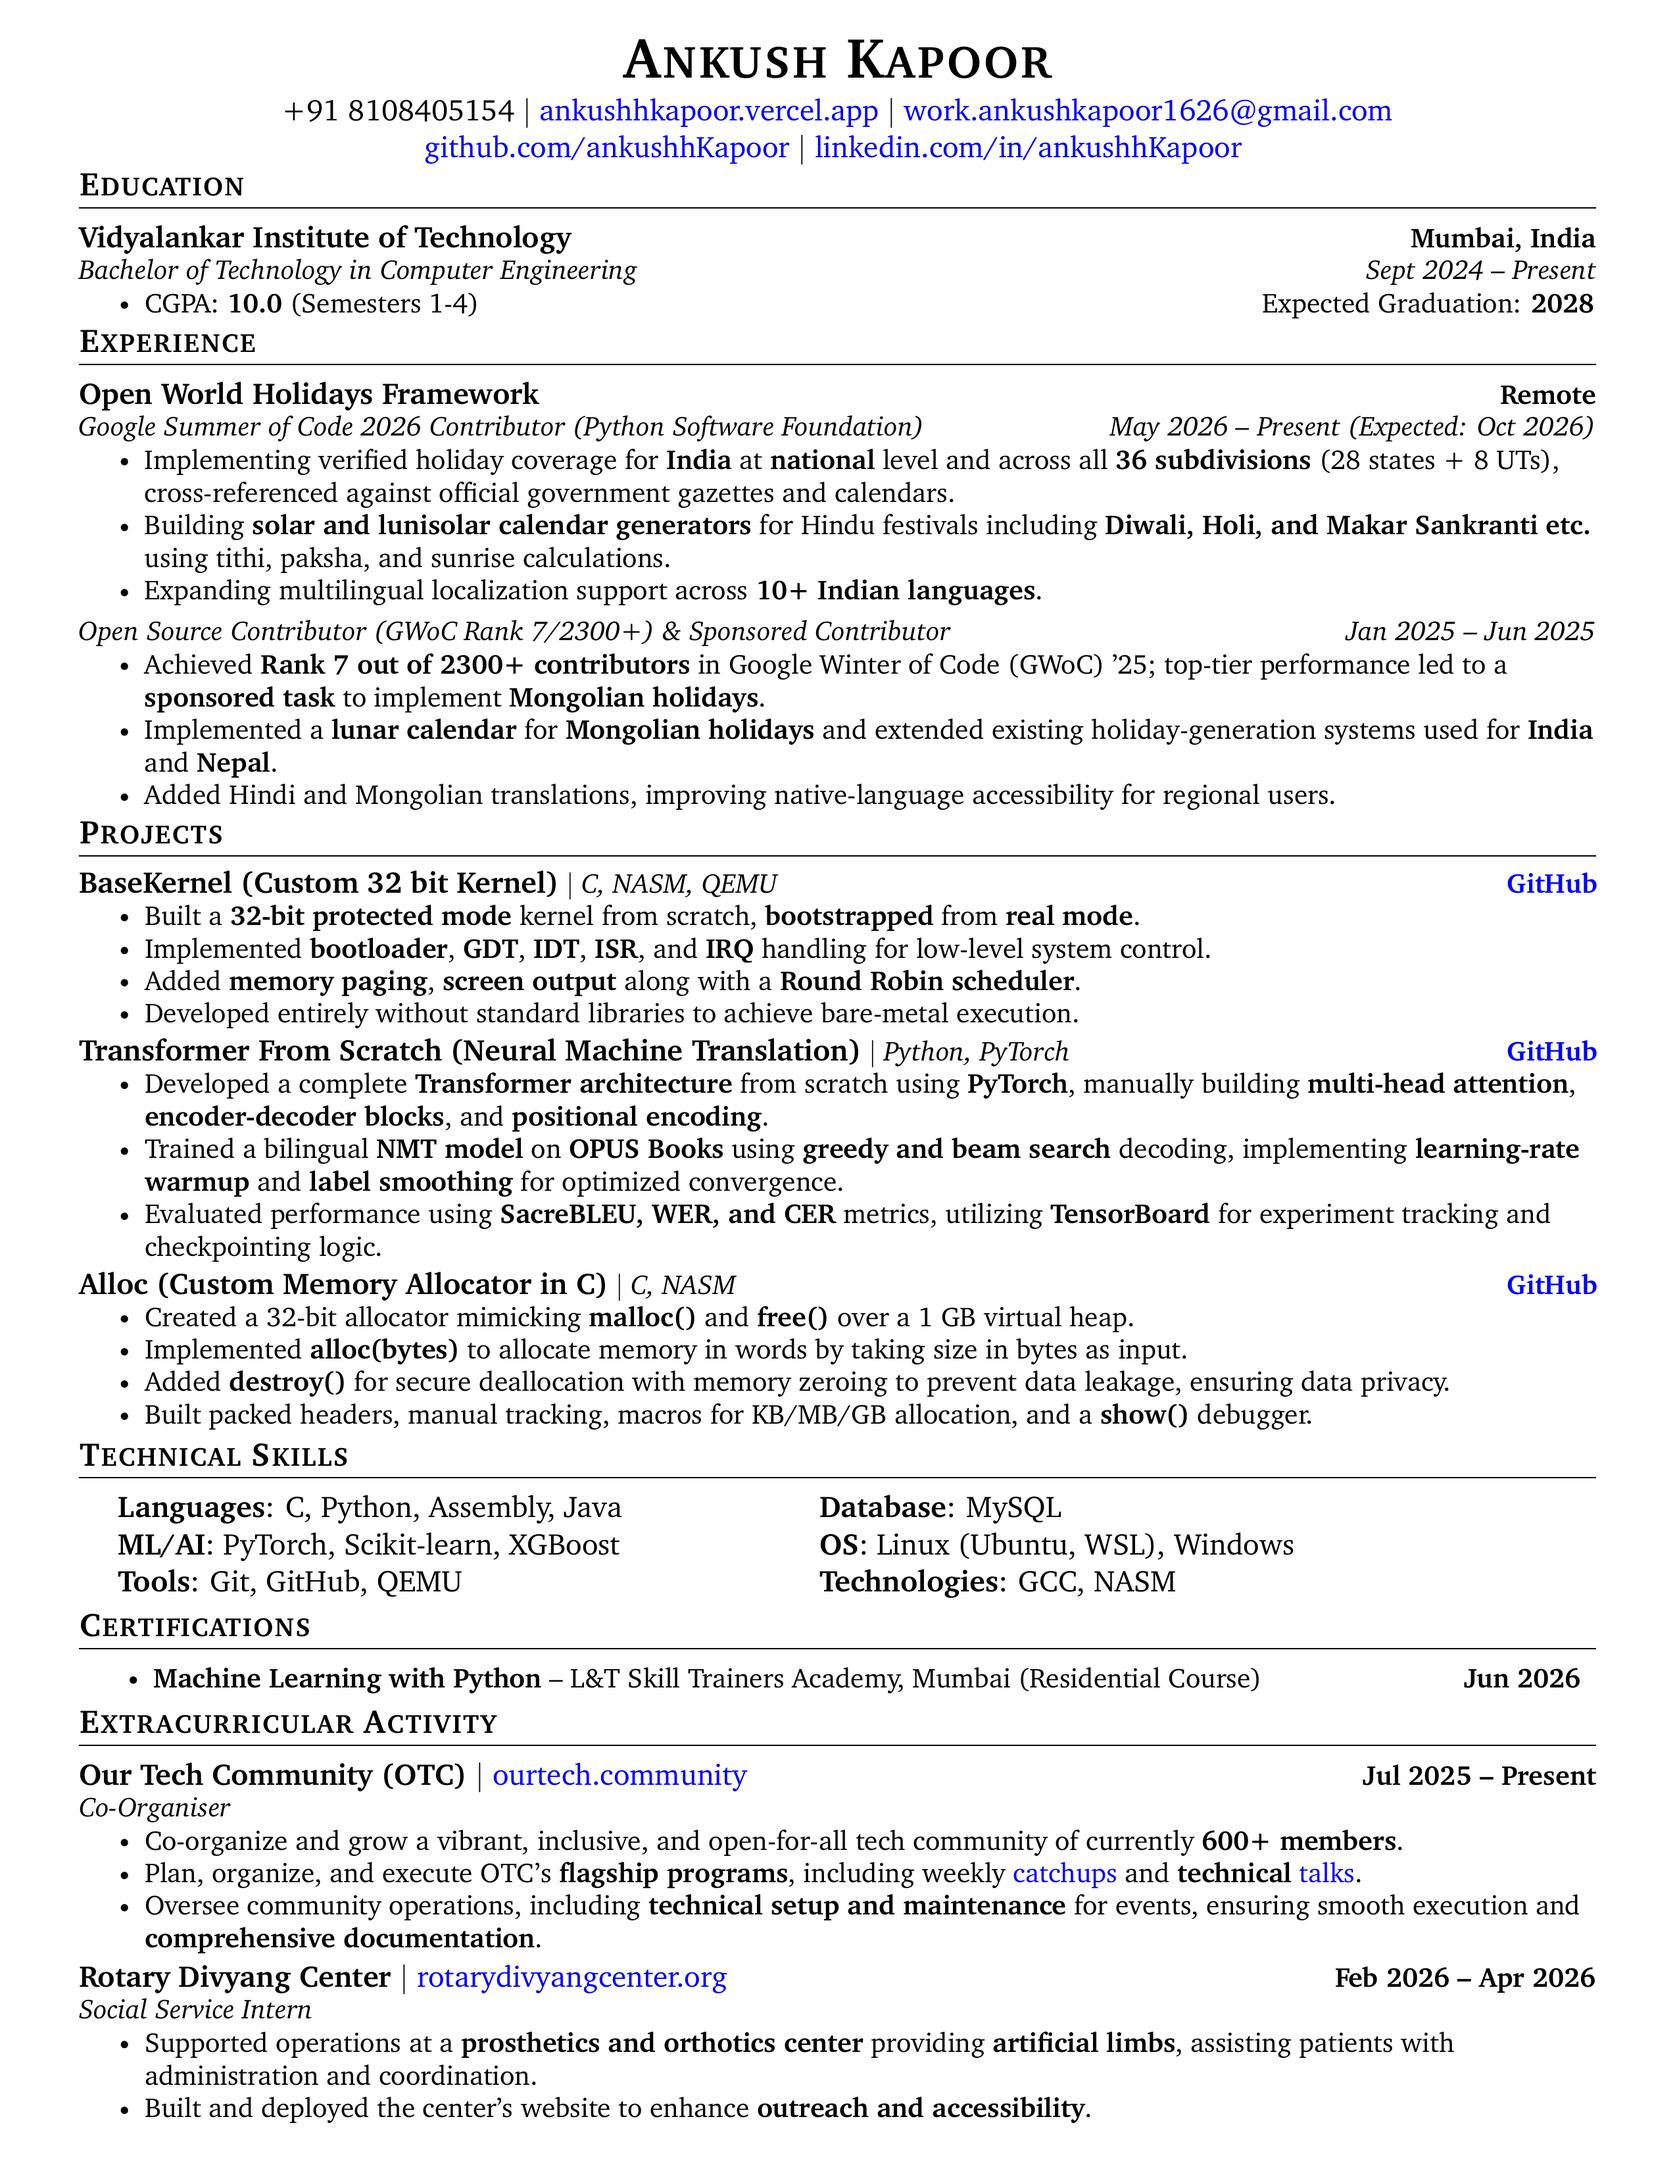
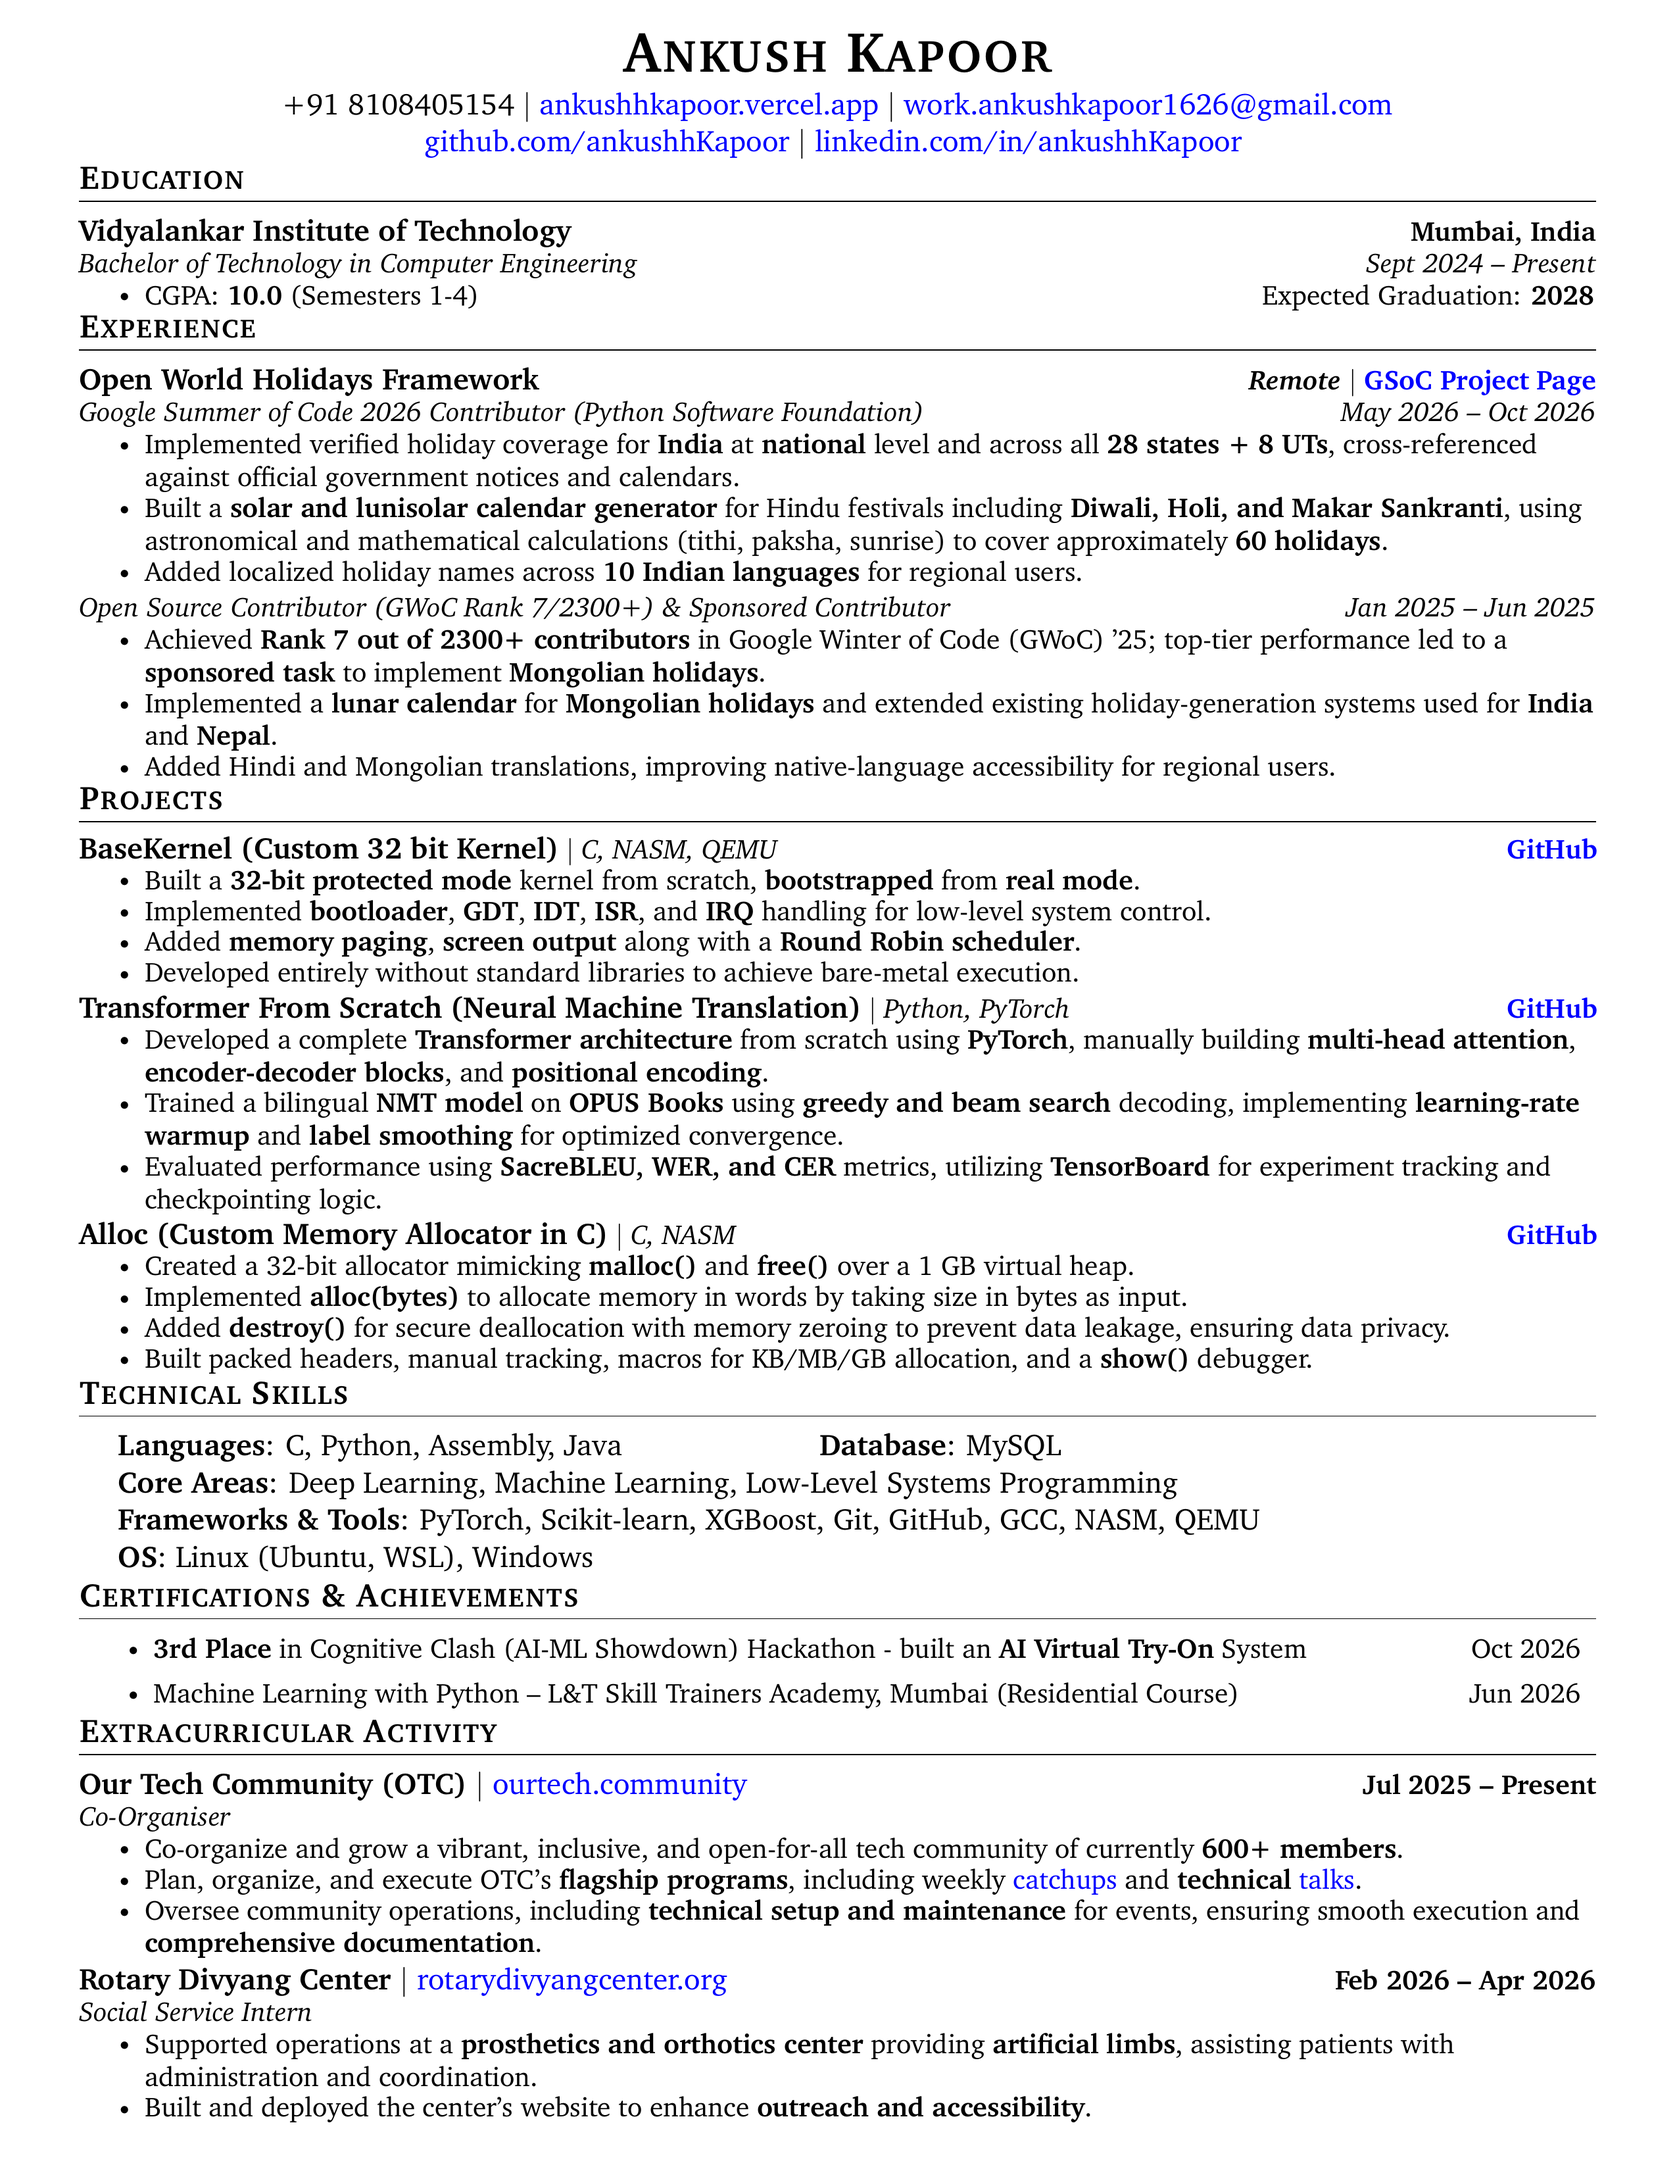
update achievements section

diff --git a/Ankush-Kapoor-Resume.tex b/Ankush-Kapoor-Resume.tex
@@ -269,11 +269,11 @@
     \end{itemize}
 \vspace{-20pt}
     
-% -----------CERTIFICATIONS-----------
-\section{Certifications \& Achievements}
+% -----------ACHIEVENEMENTS & CERTIFICATIONS-----------
+\section{Achievements \& Certifications}
     \resumeItemListStart
         \resumeItem{\textbf{3rd Place} in Cognitive Clash (AI-ML Showdown) Hackathon - built an \textbf{AI Virtual Try-On} System \hfill Oct 2026}
-        \resumeItem{Machine Learning with Python -- L\&T Skill Trainers Academy, Mumbai (Residential Course) \hfill Jun 2026}
+        \resumeItem{\textbf{Machine Learning} with \textbf{Python} Certification -- L\&T Skill Trainers Academy, Mumbai (Residential Course) \hfill Jun 2026}
     \resumeItemListEnd
 \vspace{-7pt}
 
